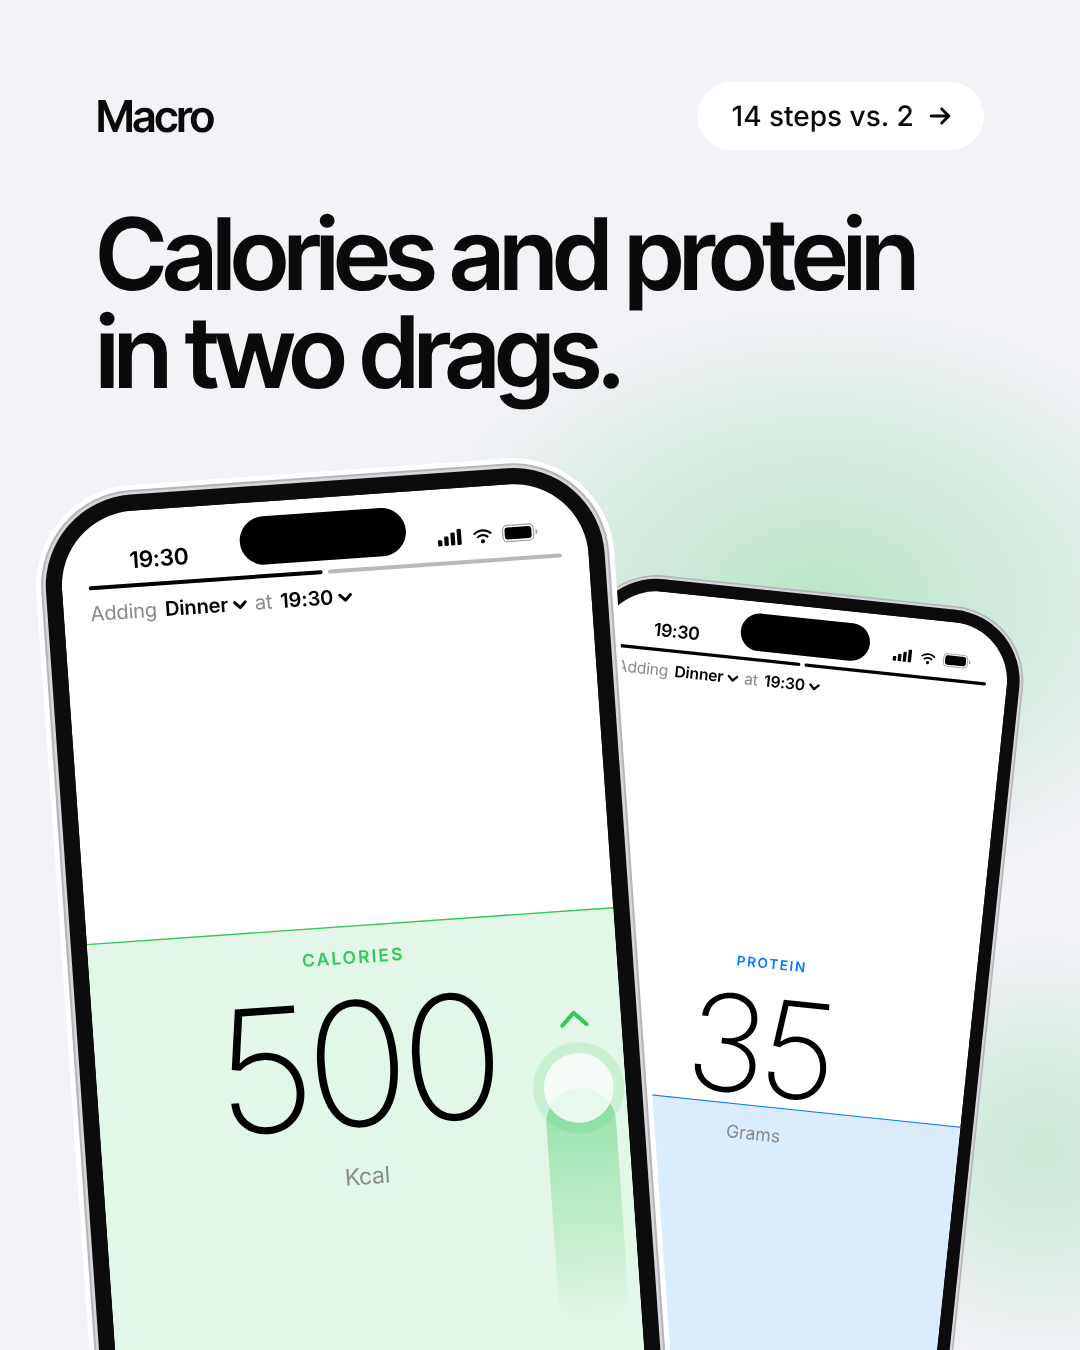
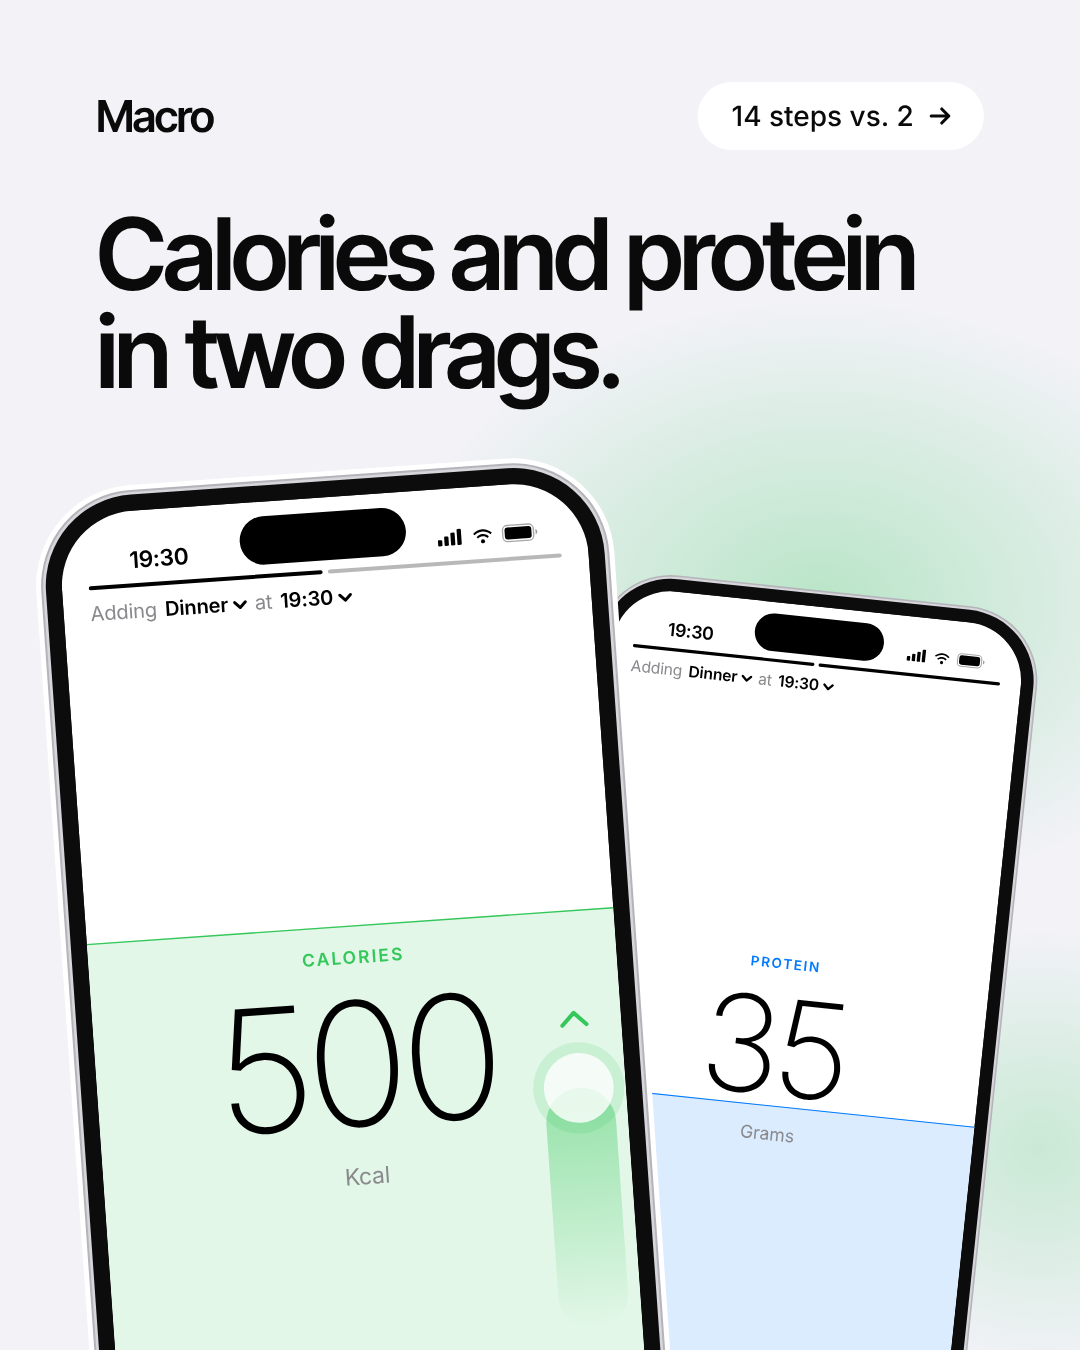
Tighten claims, contrast and the chart animation after review
Each lane of the example month now animates when its own bars come into
view, rather than both finishing below the fold. Chart labels move from
faint to muted grey, and Keep count says where your log lives instead of
claiming nobody can see it. The FAQ note opens on every click of its link,
not only the first.

On the carousel, privacy gets its own row ("Stays on your iPhone") and the
closing line adds no account. Slide 3's example label and eyebrow are easier
to read, the meal times match the 24-hour clock, and the back phone on the
cover no longer clips its header.

Claude-Session: https://claude.ai/code/session_01Uh1X8FuQRyU1AfUTYksqK3

Changed region(s): [[0.55, 0.4044, 0.9778, 1.0], [0.6417, 0.6844, 0.7944, 0.8711], [0.6417, 0.4044, 0.6722, 0.4356]]

diff --git a/src/styles/global.css b/src/styles/global.css
@@ -165,8 +165,8 @@
     }
   }
 
-  /* The example month in "Why it works": bars grow from the baseline as the chart comes into view, one day
-     after another, so the perfect week visibly stops while the rough one keeps going. */
+  /* The example month in "Why it works": each lane's bars grow from the baseline as that lane comes into view,
+     one day after another, so the perfect week visibly stops while the rough one keeps going. */
   @media (prefers-reduced-motion: no-preference) {
     .js .chart .chart-bar {
       transform-origin: bottom;

diff --git a/instagram/README.md b/instagram/README.md
@@ -1,14 +1,14 @@
 # Instagram carousel
 
-Five 4:5 slides (1080 × 1350), in posting order. They're plain SVGs styled like the site, so they open in Figma as editable layers. One meal runs through all five: a homemade spag bol for four, logged as 500 kcal and 35 g of protein at 19:30.
+Five 4:5 slides (1080 × 1350), in posting order. They're plain SVGs styled like the site, so they open in Figma as editable layers. One meal runs through slides 1, 2 and 5: a homemade spag bol for four, logged as 500 kcal and 35 g of protein at 19:30.
 
 | # | File | Says |
 | - | ---- | ---- |
 | 1 | `01-two-drags.svg` | Calories and protein in two drags. Two phones mid-drag. |
 | 2 | `02-fourteen-steps-vs-two.svg` | 14 steps vs. 2. The same spag bol in a typical tracker and in Macro, with barcode scanning, food databases and food photos struck out. |
 | 3 | `03-roughly-right.svg` | Roughly right every day beats perfectly right for a week. An example month: rough guesses that keep landing in the 10% band, against a perfect week followed by nothing. |
-| 4 | `04-keep-count.svg` | Keep count without it taking over. Nothing to weigh, a bit over counts, nudges not nagging, no ads or trackers, beside the app's week chart. |
-| 5 | `05-join-the-beta.svg` | Track your food without the faff. Free forever, join the beta. The only slide with the app icon. |
+| 4 | `04-keep-count.svg` | Keep count without it taking over. Nothing to weigh, a bit over still counts, nudges not nagging, stays on your iPhone, beside the app's week chart. |
+| 5 | `05-join-the-beta.svg` | Track your food without the faff. Free forever, no ads, no trackers, no account. Join the beta. The only slide with the app icon. |
 
 `previews/` has a PNG of each slide as committed, for a quick look without opening Figma. They won't follow your Figma edits, so export fresh ones from there when you post.
 
@@ -29,7 +29,7 @@ Colours are the site's: ink `#0a0a0a`, muted `#6e6e73`, faint `#a1a1a6`, surface
 >
 > Macro is a calorie and protein tracker for iPhone with nothing to scan, search, weigh or photograph. Drag to roughly how many calories, drag to roughly how much protein, and get on with your day.
 >
-> Roughly right every day beats perfectly right for a week. A bit over still counts, and Macro looks at your week rather than every bite, so the numbers don't take over.
+> Roughly right every day beats perfectly right for a week. A bit over still counts, and Macro looks at your week rather than every bite, so the numbers needn't take over.
 >
 > Free forever. No ads, no trackers, no account. Your meals stay on your phone, and in your own iCloud if you sync.
 >
@@ -42,5 +42,5 @@ Colours are the site's: ink `#0a0a0a`, muted `#6e6e73`, faint `#a1a1a6`, surface
 1. Two iPhones showing Macro mid-meal: dinner dragged to 500 calories, then to 35 grams of protein. "Calories and protein in two drags."
 2. "14 steps vs. 2." The same homemade spag bol for four takes 14 steps in a typical tracker (searching, picking matches, entering grams) and 2 drags in Macro. Barcode scanning, food databases and food photos are crossed out.
 3. "Roughly right every day beats perfectly right for a week." An example month on a 2,200 calorie goal: rough guesses every day, 25 of them within 10% of the goal, against seven days logged to the calorie and then nothing. Both land in the band; only one is still going.
-4. "Keep count without it taking over." Nothing to weigh, a bit over counts, nudges not nagging, no ads or trackers. Beside it, Macro's week chart: on track, 5 of 6 days this week hit both goals.
-5. The Macro app icon. "Track your food without the faff." Free forever on iPhone, no ads, no trackers. Join the beta: public beta on TestFlight, link in bio.
+4. "Keep count without it taking over." Nothing to weigh, a bit over still counts, nudges not nagging, stays on your iPhone. Beside it, Macro's week chart: on track, 5 of 6 days this week hit both goals.
+5. The Macro app icon. "Track your food without the faff." Free forever, no ads, no trackers, no account. Join the beta: public beta on TestFlight, link in bio.
